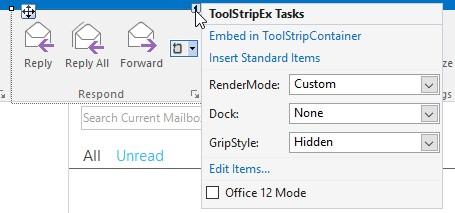
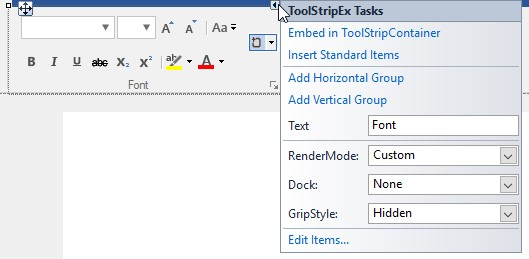
WF-47586 - Included the details of "AutoLayoutToolStrip" and Smart Tag changes in UG

diff --git a/WindowsForms/ribboncontroladv/Ribbon-Designer.md b/WindowsForms/ribboncontroladv/Ribbon-Designer.md
@@ -11,15 +11,69 @@ documentation: ug
 
 Ribbon designer is the visual designer for the Ribbon control. It is used to add custom tabs, control and groups to the Ribbon without running the application.
 
-![](Ribbon_Designer_Images/Ribbon-Designer_img1.jpg)
+![Design view of Ribbon with various controls](Ribbon_Designer_Images/Ribbon-Designer_img1.jpg)
 
 Image shows toolbox on the left side and designer on the right top and controls below the designer.
+
+## AutoLayoutToolStrip
+
+AutoLayoutToolStrip property enables Standard size and Layout for RibbonControlAdv and its items. The default value of the AutoLayoutToolStrip is False. ToolStripItems can be arranged in the RibbonControlAdv in the following three different sizes:
+
+**Large:** ToolStripItem’s DisplayStyle is ImageAndText and TextImageRelation is ImageAboveText/ ImageBelowText.
+
+**Small:** ToolStripItem’s DisplayStyle is ImageAndText and TextImageRelation is ImageBeforeText/ ImageAfterText.
+
+**Extra Small:** ToolStripItem’s DisplaySyle is Image. 
+
+**Margin and Padding:** ToolStripItems Margin and Padding are defined internally by comparing with items in the MS Ribbon so that the ToolStripItems are arranged properly to one another in RibbonControlAdv.
+
+**Image Scaling:** Images used inside RibbonControlAdv has been scaled internally for different screen resolution. We have used the below defined image size for the different item size.
+
+<table>
+<tr>
+<th>
+Size Form</th><th>
+Image Size</th></tr> 
+
+<tr>
+<td>
+Large Size form</td><td>
+32*32</td></tr>
+<tr>
+<td>
+Small and Extra Small size form</td><td>
+16*16</td></tr>
+</table>
+
+**RibbonControlAdv Height:** RibbonControlAdv Height is defined internally to accommodate the items, arranged inside with the desired layout by comparing with MS Ribbon. 
+
+{% tabs %}
+
+{% highlight c# %}
+
+this.ribbonControlAdv1.AutoLayoutToolStrip = true;
+
+{% endhighlight %}
+
+{% highlight vb %}
+
+Me.ribbonControlAdv1.AutoLayoutToolStrip = True
+
+{% endhighlight %}
+
+{% endtabs %}
+
+![Ribbon with AutoLayoutToolStrip](Ribbon_Designer_Images/Ribbon-Designer_img4.jpg)
 
 ## Smart Tag support
 
 Smart Tag feature allows you to quickly access the most commonly used properties and options, as well as perform tasks without having to leave the control’s design surface. (resembles a right-pointing arrow)
 
-![](Ribbon_Designer_Images/Ribbon-Designer_img2.jpg)
+In Ribbon Smart Tag, we have now included the support to change some of the frequently used properties related to the Appearance, Behavior and links to access documentation and support resources of Ribbon.
 
-![](Ribbon_Designer_Images/Ribbon-Designer_img3.jpg)
+![Smart Tag of RibbonControlAdv](Ribbon_Designer_Images/Ribbon-Designer_img2.jpg)
+
+In ToolStripEx Smart Tag, we can now set the Text for the ToolStripEx and add Horizontal and Vertical Layout ToolStripPanelItem from the Smart Tag. 
+
+![Smart Tag of ToolStripEx](Ribbon_Designer_Images/Ribbon-Designer_img3.jpg)
 
